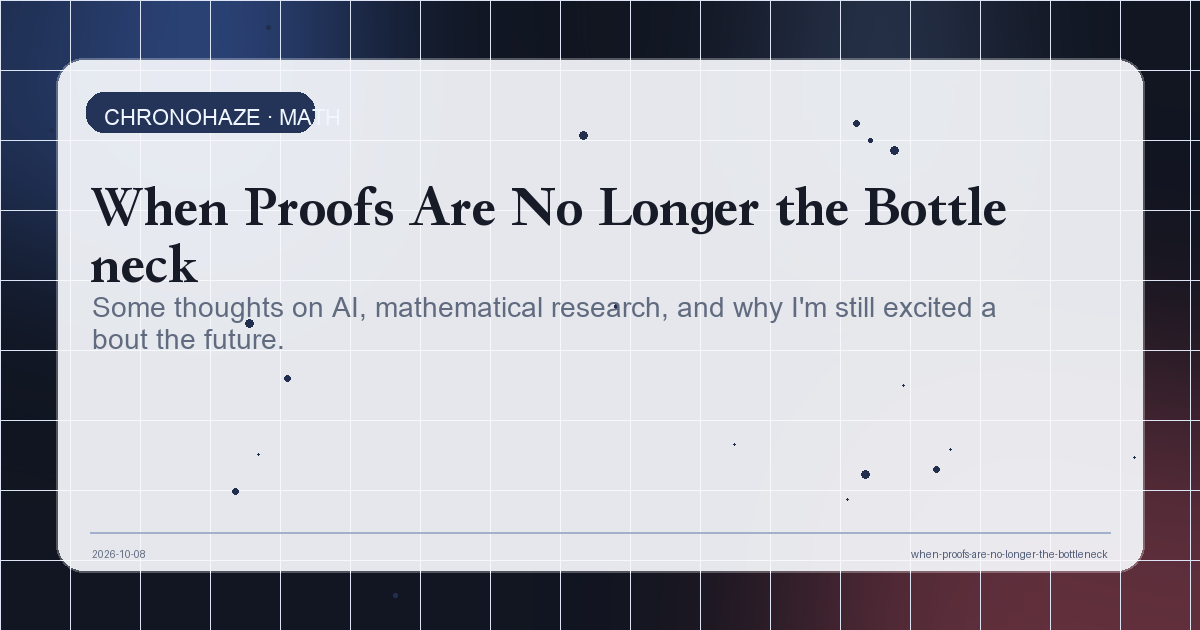
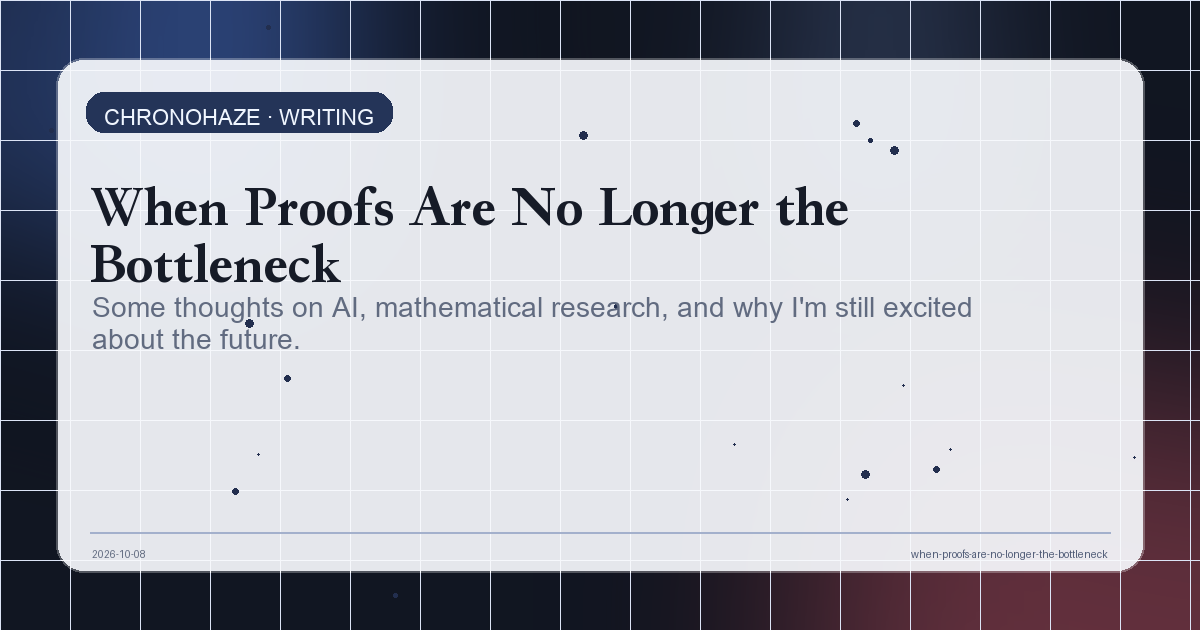
Polish reflection sharing card and refresh archive checks

diff --git a/tests/runtime-smoke.spec.js b/tests/runtime-smoke.spec.js
@@ -1852,7 +1852,7 @@ test("server-rendered math catalog does not refetch its JSON payload", async ({ 
 
   await page.goto("math.html?lang=en", { waitUntil: "domcontentloaded" });
   await waitForCriticalLoaderRelease(page);
-  await expect(page.locator(".math-list .math-card")).toHaveCount(9);
+  await expect(page.locator(".math-list .math-card")).toHaveCount(10);
   expect(catalogRequests).toBe(0);
 });
 
@@ -1864,15 +1864,15 @@ test("touch links inside technical-note cards remain directly navigable", async 
 
   const latestCard = page.locator(".math-list .math-card").first();
   await latestCard.locator(".math-title-link").tap();
-  await expect(page).toHaveURL(/post\/stochasticgreedy-executable-refinement\.html/);
+  await expect(page).toHaveURL(/post\/when-proofs-are-no-longer-the-bottleneck\.html/);
   await expect(page.getByRole("heading", {
-    name: "从一套框架到真正会运行的随机算法：StochasticGreedy 的 executable refinement",
+    name: "When Proofs Are No Longer the Bottleneck",
     exact: true,
   })).toBeVisible();
 
   await page.goto("math.html?lang=zh", { waitUntil: "domcontentloaded" });
   await waitForCriticalLoaderRelease(page);
-  const networkCard = page.locator(".math-list .math-card").nth(1);
+  const networkCard = page.locator('.math-card[data-href="notes/network_localization_structural_certificates.html"]');
   await networkCard.locator(".math-more").tap();
   await expect(page).toHaveURL(/notes\/network_localization_structural_certificates\.html/);
   await expect(page.getByRole("heading", {
@@ -2808,7 +2808,7 @@ test("technical notes use explicit status labels and a local Julia fractal", asy
   expect(fractalLayout.shadow).toBe("none");
   await expect(page.locator("#pinned-notes .math-note-status")).toHaveCount(3);
   await expect(page.locator("#exploratory-archive")).toHaveCount(0);
-  await expect(page.locator("#notes-archive .math-note-status")).toHaveCount(9);
+  await expect(page.locator("#notes-archive .math-note-status")).toHaveCount(10);
   const labels = await page.locator(".math-note-status").allTextContents();
   const allowed = new Set([
     "Published formalization",
@@ -2819,6 +2819,7 @@ test("technical notes use explicit status labels and a local Julia fractal", asy
     "Historical note · Superseded",
     "Exploratory derivation",
     "Reading note",
+    "Research Reflection",
   ]);
   expect(labels.every((label) => allowed.has(label.trim()))).toBe(true);
   const verticalOrder = await page.evaluate(() => ({
@@ -2924,7 +2925,7 @@ test("shared modal-invariants note is formal, direct-link only, and non-indexabl
   expect(errors).toEqual([]);
 });
 
-test("the latest executable-refinement note leads the math archive and AFP work exposes primary evidence", async ({ page }) => {
+test("the reflection leads the math archive and AFP work exposes primary evidence", async ({ page }) => {
   const errors = trackPageErrors(page);
 
   for (const lang of ["zh", "en"]) {
@@ -2967,13 +2968,16 @@ test("the latest executable-refinement note leads the math archive and AFP work 
   await expect(page.locator('main a[href="notes/ttgda_second_order_tracking_note.html"]')).toHaveCount(0);
   await expect(page.locator("#notes-archive")).toBeVisible();
   const archiveNotes = page.locator(".math-list .math-card");
-  await expect(archiveNotes).toHaveCount(9);
-  await expect(archiveNotes.nth(0)).toContainText("从一套框架到真正会运行的随机算法");
-  await expect(archiveNotes.nth(0)).toContainText("未发表扩展");
-  await expect(archiveNotes.nth(1)).toContainText("网络定位中的二阶几何：研究概览");
-  await expect(archiveNotes.nth(1)).toContainText("进行中的合作研究");
-  await expect(archiveNotes.nth(2)).toContainText("子模贪心算法形式化正式进入 AFP");
-  await expect(archiveNotes.nth(2).locator(".math-date")).toContainText("原始发布 · 2026-06-30");
+  await expect(archiveNotes).toHaveCount(10);
+  await expect(archiveNotes.nth(0)).toContainText("When Proofs Are No Longer the Bottleneck");
+  await expect(archiveNotes.nth(0)).toContainText("Research Reflection");
+  await expect(archiveNotes.nth(0).locator(".math-date")).toHaveText("2026-10-08");
+  await expect(archiveNotes.nth(1)).toContainText("从一套框架到真正会运行的随机算法");
+  await expect(archiveNotes.nth(1)).toContainText("未发表扩展");
+  await expect(archiveNotes.nth(2)).toContainText("网络定位中的二阶几何：研究概览");
+  await expect(archiveNotes.nth(2)).toContainText("进行中的合作研究");
+  await expect(archiveNotes.nth(3)).toContainText("子模贪心算法形式化正式进入 AFP");
+  await expect(archiveNotes.nth(3).locator(".math-date")).toContainText("原始发布 · 2026-06-30");
   await expect(page.locator('a[href="notes/theorem11_convexity_note.html"]')).toHaveCount(0);
   await expect(page.locator('a[href="notes/huber_glm_sparsification_refinement_note.html"]')).toHaveCount(0);
 

diff --git a/scripts/build_social_cards_and_meta.py b/scripts/build_social_cards_and_meta.py
@@ -318,13 +318,15 @@ def fit_text_lines(
     font: ImageFont.ImageFont,
     max_width: int,
     max_lines: int,
+    preserve_words: bool = False,
 ) -> List[str]:
     compact = re.sub(r"\s+", " ", str(text or "").strip())
     if not compact:
         return []
     lines: List[str] = []
     current = ""
-    for ch in compact:
+    units = re.findall(r"\S+\s*", compact) if preserve_words else compact
+    for ch in units:
         test = current + ch
         bbox = draw.textbbox((0, 0), test, font=font)
         width = bbox[2] - bbox[0]
@@ -400,10 +402,13 @@ def render_math_card_image(item: dict, out_path: Path) -> None:
     meta_font = load_font(MONO_FONT_CANDIDATES, 20)
     label_font = load_font(SANS_FONT_CANDIDATES, 22)
 
-    draw.rounded_rectangle((86, 92, 314, 132), radius=18, fill=(36, 52, 88, 228))
-    draw.text((104, 101), "CHRONOHAZE · MATH", font=label_font, fill=(240, 246, 255, 255))
+    is_reflection = item.get("note_status") == "Research Reflection"
+    label = "CHRONOHAZE · WRITING" if is_reflection else "CHRONOHAZE · MATH"
+    label_right = 122 + draw.textbbox((0, 0), label, font=label_font)[2] if is_reflection else 314
+    draw.rounded_rectangle((86, 92, label_right, 132), radius=18, fill=(36, 52, 88, 228))
+    draw.text((104, 101), label, font=label_font, fill=(240, 246, 255, 255))
 
-    title_lines = fit_text_lines(draw, item.get("title") or "", title_font, max_width=940, max_lines=4)
+    title_lines = fit_text_lines(draw, item.get("title") or "", title_font, max_width=940, max_lines=4, preserve_words=is_reflection)
     y = draw_text_lines(
         draw,
         title_lines,
@@ -415,7 +420,7 @@ def render_math_card_image(item: dict, out_path: Path) -> None:
     )
 
     excerpt = item.get("excerpt") or ""
-    excerpt_lines = fit_text_lines(draw, excerpt, body_font, max_width=910, max_lines=4)
+    excerpt_lines = fit_text_lines(draw, excerpt, body_font, max_width=910, max_lines=4, preserve_words=is_reflection)
     y = draw_text_lines(
         draw,
         excerpt_lines,
